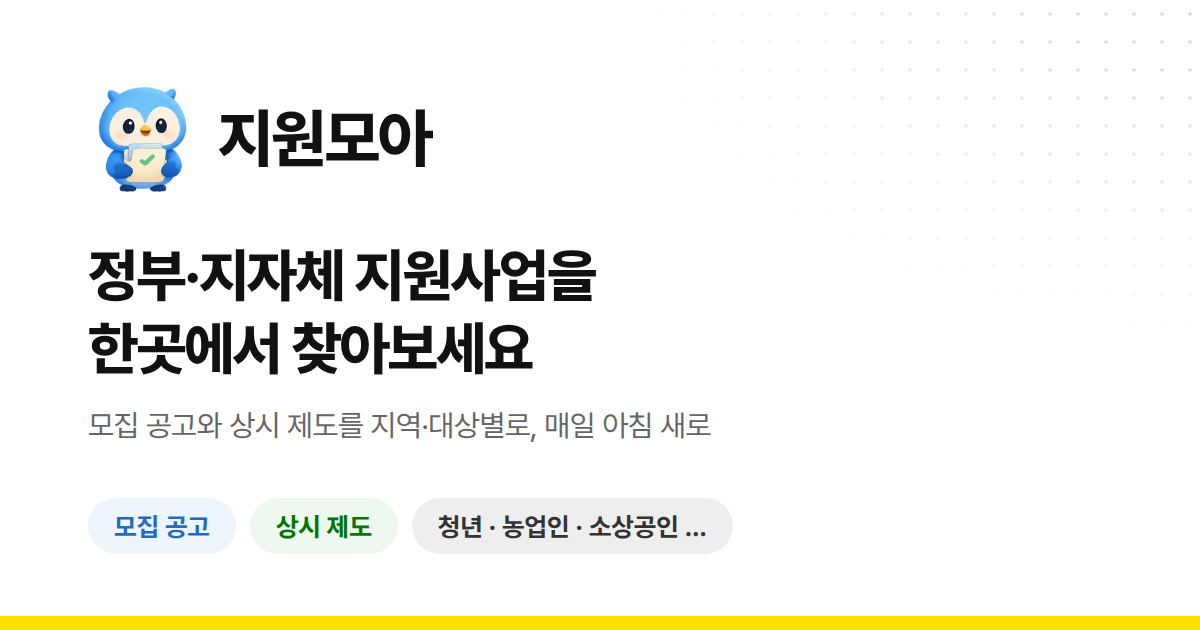
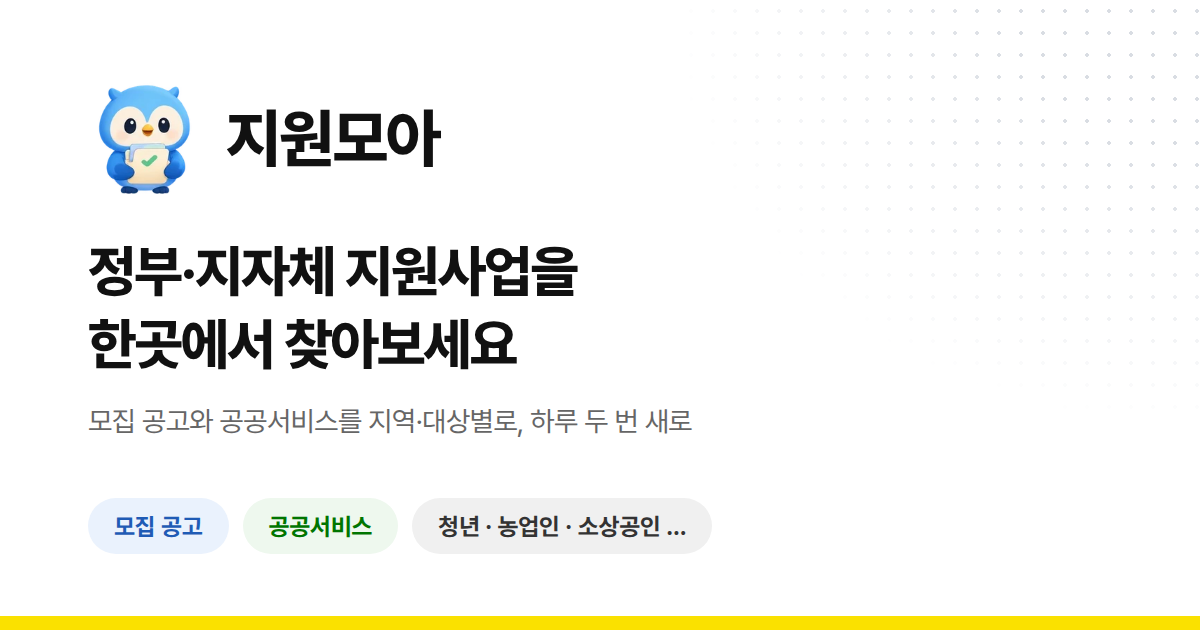
검색 띄어쓰기 무시·0건 안내, 첫 방문 가볍게, 홈 제목 수, 그래프 키보드, 휴대폰 누름 칸, 공유 그림 새로

diff --git a/site/app.js b/site/app.js
@@ -437,6 +437,12 @@
     }
     return noticeText;
   }
+  /* 곧 쓸 것 같을 때 미리 받기: 브라우저가 한가할 때(없으면 바로) */
+  function prefetchNoticeText() {
+    if (noticeText) return;
+    if (window.requestIdleCallback) window.requestIdleCallback(function () { ensureNoticeText(); }, { timeout: 1500 });
+    else ensureNoticeText();
+  }
   function retryNoticeText() {
     noticeText = null;
     noticeTextReady = false;
@@ -562,8 +568,14 @@
     if (item._h === undefined) {
       // 분야 칩 이름(예: '스마트팜·기술')은 넣지 않는다. '스마트팜' 검색에 스마트공장이 걸리지 않게.
       item._h = [item.t, item.ag, item.op, item.cat, item.sm, item.tg].join(" ").toLowerCase();
+      item._hn = item._h.replace(/\s+/g, ""); // 띄어쓰기를 뺀 글: '청년지원'으로 찾아도 '청년 지원'이 걸리게
     }
     return item._h;
+  }
+  /* 검색 낱말 하나가 이 사업 글에 있나(띄어쓰기 무시). 낱말이 여럿이면 모두 있어야 한다 */
+  function hasTerm(item, t) {
+    var h = haystack(item);
+    return h.indexOf(t) >= 0 || item._hn.indexOf(t) >= 0;
   }
 
   function fitsMe(item) {
@@ -591,8 +603,7 @@
   function matches(item, terms, skipSoon) {
     if (!inTab(item)) return false;
     if (terms.length) {
-      var h = haystack(item);
-      for (var i = 0; i < terms.length; i++) if (h.indexOf(terms[i]) < 0) return false;
+      for (var i = 0; i < terms.length; i++) if (!hasTerm(item, terms[i])) return false;
     }
     if (state.r) {
       var rg = item.rg || [];
@@ -729,12 +740,22 @@
     return items;
   }
 
-  function showState(kind) {
+  function showState(kind, terms) {
     var box = $("#listState");
     box.className = "state" + (kind === "error" ? " error" : "");
     if (kind === "empty") {
+      // 0건일 때 다음에 해 볼 것: 다른 탭(모집 공고 ↔ 공공서비스)에 같은 검색어가 있으면 그쪽으로, 낱말이 여럿이면 줄여 보기
+      var tips = el("div", { className: "state-tips" });
+      if (terms && terms.length) {
+        var other = emptyOther(terms);
+        if (other) tips.append(other);
+        tips.append(el("p", { className: "state-note", text: terms.length > 1
+          ? "낱말을 하나씩 줄여 보세요. 띄어쓰기는 상관없이 찾아요."
+          : "비슷한 다른 낱말(예: '창업' 대신 '스타트업')로도 찾아보세요." }));
+      }
       box.replaceChildren(icon("magnifying-glass"),
-        el("p", { className: "state-title", text: "조건에 맞는 지원사업이 없습니다" }),
+        el("p", { className: "state-title", text: terms && terms.length ? "‘" + state.q + "’에 맞는 지원사업이 없습니다" : "조건에 맞는 지원사업이 없습니다" }),
+        tips.childNodes.length ? tips : null,
         activeFilterCount() ? el("button", { type: "button", className: "btn dark", dataset: { action: "reset" },
           text: "조건 모두 지우기" }) : null);
     } else if (kind === "error") {
@@ -790,7 +811,7 @@
     }
     var hits = sortItems(data.filter(function (it) { return matches(it, terms); }));
     var listNote = $("#listNote"), textMissing = noticeTextFailed && terms.length > 0 && state.tab !== "services";
-    var cross = textMissing ? null : dueCrossNote(terms);
+    var cross = textMissing ? null : dueCrossNote(terms) || splitNote(data, terms, hits.length);
     listNote.hidden = !textMissing && !cross;
     listNote.replaceChildren(textMissing ? loadNote("공고 본문을 불러오지 못해 제목·기관 이름에서만 찾았습니다.", function () {
       retryNoticeText().then(function () { renderList(); renderDetail(); });
@@ -799,7 +820,7 @@
     $("#resultCount").textContent = fmtN(hits.length) + "건";
     $("#filterDone").textContent = "결과 " + fmtN(hits.length) + "건 보기";
     results.replaceChildren.apply(results, hits.slice(0, shown).map(function (item) { return row(item); }));
-    showState(hits.length ? null : "empty");
+    showState(hits.length ? null : "empty", terms);
     more.hidden = hits.length <= shown;
     more.textContent = "더 보기 (" + fmtN(Math.min(shown, hits.length)) + " / " + fmtN(hits.length) + ")";
     updateFilterBadge();
@@ -818,8 +839,8 @@
     state.tab = toSvc ? "services" : "open"; // matches가 탭에 따라 거르는 것(분야 등)을 그쪽 기준으로
     var n = pool.filter(function (it) {
       if (toSvc && terms.length) {
-        var h = [it.t, it.ag].join(" ").toLowerCase();
-        if (terms.some(function (t) { return h.indexOf(t) < 0; })) return false;
+        var h = [it.t, it.ag].join(" ").toLowerCase(), hn = h.replace(/\s+/g, "");
+        if (terms.some(function (t) { return h.indexOf(t) < 0 && hn.indexOf(t) < 0; })) return false;
       }
       return (toSvc || it.k === "n") && matches(it, toSvc ? [] : terms);
     }).length;
@@ -831,6 +852,53 @@
     b.addEventListener("click", function () {
       goTo({ tab: toSvc ? "services" : "open", q: state.q, soon: state.soon, due: state.due, sort: "deadline" });
     });
+    return b;
+  }
+
+  /* 붙여 쓴 한 낱말('청년지원')을 두 낱말('청년 지원')로 나눠 찾으면 훨씬 많으면 목록 위에 알린다.
+   * 띄어쓰기 무시(hasTerm)는 '청년 지원'이 붙어 있는 글만 찾으므로, '청년 … 지원'처럼 떨어진 글은 이렇게 권한다 */
+  function splitNote(data, terms, n) {
+    if (terms.length !== 1 || !/^[가-힣]{4,10}$/.test(terms[0])) return null;
+    var t = terms[0], best = null;
+    for (var k = 2; k <= t.length - 2; k++) {
+      var q = [t.slice(0, k), t.slice(k)];
+      var c = data.filter(function (it) { return matches(it, q); }).length;
+      if (!best || c > best.c) best = { q: q.join(" "), c: c };
+    }
+    if (!best || best.c < n * 2 || best.c - n < 5) return null;
+    var b = el("button", { type: "button", className: "cross-note" },
+      icon("magnifying-glass"), "띄어 쓴 ‘" + best.q + "’(으)로 찾으면 ", el("strong", { text: fmtN(best.c) + "건" }), icon("arrow-right"));
+    b.addEventListener("click", function () { // 다른 조건은 그대로 두고 검색어만 바꾼다
+      state.q = best.q; $("#q").value = best.q; shown = PAGE; renderList(); writeHash(true);
+    });
+    return b;
+  }
+
+  /* 검색 결과 0건일 때: 같은 검색어(다른 조건은 빼고)로 다른 탭에 있는 수. 공공서비스 자료를 아직 안 받았으면 건수 없이 단추만 */
+  function emptyOther(terms) {
+    var toSvc = state.tab !== "services", what = toSvc ? "공공서비스" : "모집 공고";
+    var pool = toSvc ? services : NOTICES;
+    if (!toSvc && !noticeTextReady) { // 공고 긴 글이 오면 개요·대상 글까지 넣어 다시 센다
+      ensureNoticeText().then(function () { if (state.tab === "services") renderList(); });
+    }
+    var go = function () { goTo({ tab: toSvc ? "services" : "open", q: state.q }); };
+    var label;
+    if (!pool) { // 공공서비스 자료를 받은 뒤 건수를 넣어 다시 그린다(없으면 이 줄은 사라진다)
+      ensureServices().then(function () { if (state.tab !== "services") renderList(); });
+      label = [what + "에서 ‘" + state.q + "’ 찾아보기"];
+    }
+    else {
+      var n = pool.filter(function (it) {
+        return statusOf(it) !== "마감" && terms.every(function (t) { return hasTerm(it, t); });
+      }).length;
+      if (!n) return null;
+      label = [what + "에는 ", el("strong", { text: fmtN(n) + "건" }), " 있어요"];
+    }
+    var b = el("button", { type: "button", className: "cross-note" },
+      el("span", { className: "kind-dot " + (toSvc ? "svc" : "open"), "aria-hidden": "true" }));
+    label.forEach(function (x) { b.append(x); });
+    b.append(icon("arrow-right"));
+    b.addEventListener("click", go);
     return b;
   }
 
@@ -1082,6 +1150,7 @@
     var pane = $("#detail");
     if (!state.id) {
       pane.replaceChildren(renderGuide());
+      pane._shown = null;
       document.body.classList.remove("detail-open", "lock");
       document.title = viewTitle();
       return;
@@ -1098,7 +1167,10 @@
       openOverlay();
       return;
     }
-    ensureDetail(item).then(function () { drawDetail(item); }, function () { drawDetail(item); });
+    // 공고 긴 글을 아직 안 받았으면(느린 망 수 초) 받은 것으로 먼저 그리고, 오면 다시 그린다
+    if (item.k !== "s" && !noticeTextReady) drawDetail(item, true);
+    ensureDetail(item).then(function () { if (state.id === item.id) drawDetail(item); },
+      function () { if (state.id === item.id) drawDetail(item); });
   }
 
   function detailBar() {
@@ -1107,7 +1179,7 @@
         icon("arrow-left"), "목록으로"));
   }
 
-  function drawDetail(item) {
+  function drawDetail(item, waiting) {
     var pane = $("#detail");
     var st = statusOf(item);
     var dday = st === "접수 중" && item.e ? daysBetween(today, item.e) : null;
@@ -1197,6 +1269,7 @@
     var inner = el("div", { className: "detail-inner" },
       head,
       el("h2", { id: "detailTitle", tabindex: "-1", text: item.t }),
+      waiting ? el("p", { className: "peek-wait detail-wait", role: "status", text: "공고 본문을 불러오는 중…" }) : null,
       lostNote,
       changeNote,
       facts,
@@ -1214,10 +1287,13 @@
       similarSection(item) || "",
       // 인쇄할 때만 보이는 꼬리: 어디서 뽑았는지와 다시 볼 주소
       el("p", { className: "print-only print-foot", text: "지원모아 " + shareUrl(item) + " · " + fmtDate(today, true) + " 인쇄" }));
+    // 같은 공고를 다시 그릴 때(긴 글이 늦게 옴)는 읽던 자리·초점을 그대로 둔다
+    var again = pane._shown === item.id && document.body.classList.contains("detail-open"), keep = pane.scrollTop;
     pane.replaceChildren(detailBar(), inner);
-    pane.scrollTop = 0;
+    pane._shown = item.id;
+    pane.scrollTop = again ? keep : 0;
     document.title = item.t + " | " + SITE_TITLE;
-    openOverlay();
+    if (!again) openOverlay();
   }
 
   /* 비슷한 지원사업 3건: 같은 종류(공고/공공서비스)에서 분야 같음 +3, 겹치는 대상마다 +2, 같은 지방 지역 +3(전국은 +1),
@@ -1421,6 +1497,7 @@
 
   function applyView() {
     var home = state.tab === "home";
+    if (state.tab === "open") prefetchNoticeText(); // 목록에서 공고를 누르면 바로 보이게
     $("#homePane").hidden = !home;
     $("#topHint").hidden = !home; // 그래프 안내는 홈에서만
     $("#listLayout").hidden = home;
@@ -1660,8 +1737,10 @@
     var runs = META.runs || [];
     var at = runs.map(function (r) { return r.at; }).sort().pop() || META.builtAt;
 
+    // 큰 제목은 '지금 신청할 수 있는' 것만: 마감과 아직 접수 전(접수 예정)은 뺀다(접수 예정은 숫자 타일·맨 아래 카드에)
+    var canApply = live.filter(function (n) { return statusOf(n) !== "접수 예정"; }).length;
     $("#homeTitle").replaceChildren((state.r ? state.r + "에서 " : "") + "지금 신청할 수 있는 모집 공고 ",
-      el("strong", { text: fmtN(live.length) }), "건");
+      el("strong", { text: fmtN(canApply) }), "건");
     $("#homeSub").textContent = NOTICES_MISSING ? "모집 공고 자료를 불러오지 못했습니다. 새로 고침해 주세요."
       : fmtStamp(at) + " 수집 · 공공서비스는 따로 셈";
     document.querySelectorAll("#homePane .sk-only").forEach(function (e) { e.remove(); }); // 첫 화면 자리 잡기(index.html)
@@ -1901,6 +1980,39 @@
   }
 
   /* 그래프 표시(막대·조각)를 키보드로도 고를 수 있게 한다. 이동할 곳이 없으면 읽기 전용 */
+  /* 키보드: 그래프 하나(막대·칸·지역 묶음, 도넛 범례, 지역 순위 목록)는 Tab 정거장 하나.
+   * 묶음 안에서는 화살표(←↑ 이전, →↓ 다음)·Home·End로 움직인다(예전엔 그래프 표시 84개가 모두 Tab 정거장이었다) */
+  function setupRoving(root) {
+    if (!root) return;
+    root.querySelectorAll("svg, .donut-legend, .kmap-list").forEach(function (g) {
+      var items = [].slice.call(g.querySelectorAll(g.tagName.toLowerCase() === "svg" ? "[tabindex]" : "button"));
+      if (items.length < 2) return;
+      g._rove = items;
+      g.setAttribute("aria-describedby", "roveHint");
+      items.forEach(function (it, i) { it.setAttribute("tabindex", i ? "-1" : "0"); });
+    });
+    if (root._roveBound) return;
+    root._roveBound = true;
+    root.addEventListener("focusin", function (e) {
+      var g = e.target.closest && e.target.closest("svg, .donut-legend, .kmap-list");
+      if (!g || !g._rove || g._rove.indexOf(e.target) < 0) return;
+      g._rove.forEach(function (it) { it.setAttribute("tabindex", it === e.target ? "0" : "-1"); });
+    });
+    root.addEventListener("keydown", function (e) {
+      var g = e.target.closest && e.target.closest("svg, .donut-legend, .kmap-list");
+      if (!g || !g._rove) return;
+      var items = g._rove, i = items.indexOf(e.target);
+      if (i < 0) return;
+      var j = { ArrowRight: i + 1, ArrowDown: i + 1, ArrowLeft: i - 1, ArrowUp: i - 1, Home: 0, End: items.length - 1 }[e.key];
+      if (j === undefined) return;
+      e.preventDefault();
+      items[Math.max(0, Math.min(items.length - 1, j))].focus();
+    });
+  }
+
+  /* 손가락으로 누르는 좁은 화면(style.css의 44px 누름 칸 규칙과 같은 조건) */
+  function PHONE_TAP() { return window.matchMedia("(pointer: coarse), (max-width: 639px)").matches; }
+
   function activate(node, label, onPick) {
     node.setAttribute("tabindex", "0");
     node.setAttribute("aria-label", label);
@@ -2408,6 +2520,7 @@
 
   function butterflyBars(data, series, label, W, fitH) {
     var head = 24, rowH = fitH ? Math.max(24, Math.min(40, Math.floor((fitH - head - 4) / data.length))) : 26;
+    if (PHONE_TAP()) rowH = 44; // 휴대폰: 막대 줄 높이 = 손가락 누름 칸 44px(막대 굵기는 그대로)
     var barT = Math.min(16, rowH - 8);
     var labelW = labelColumn(data.map(function (d) { return d.label; }), W) + 4;
     var side = (W - labelW) / 2, plot = side - 40;
@@ -2997,7 +3110,7 @@
     } else {
       S = Math.min(240, W - 20);
       cols = 2;
-      rowH = 34;
+      rowH = PHONE_TAP() ? 44 : 34; // 휴대폰: 범례 줄도 손가락 누름 칸 44px
     }
     var c = S / 2, R = c - DONUT_OFFSET - 2, r = Math.round(S * DONUT_INNER_K), zoom = S / 180;
     var legendRows = Math.ceil(rowsMax / cols), rowGap = side ? 2 : 4;
@@ -3259,6 +3372,7 @@
       cards = cards.concat(popBlock);
     }
     setupMotion(cards);
+    setupRoving($("#homeCharts"));
     placeSegGliders(); // 글꼴이 온 뒤 그래프만 다시 그릴 때도 전환 단추 알약을 맞춘다
   }
 
@@ -3664,8 +3778,13 @@
       renderList();
       renderDetail();
     }
-    // 첫 화면을 그린 뒤 공고 긴 글을 받아 둔다(검색·상세가 쓴다)
-    setTimeout(ensureNoticeText, 0);
+    // 공고 긴 글(notices-text.js, 압축 약 0.5MB)은 첫 화면에서 받지 않는다(첫 방문 무게의 절반이었음).
+    // 검색칸에 들어가거나·모집 공고 목록을 열거나·공고를 누르려 할 때 미리 받는다(prefetchNoticeText)
+    ["#homeQ", "#q"].forEach(function (sel) { $(sel).addEventListener("focus", prefetchNoticeText); });
+    document.addEventListener("pointerdown", function (e) {
+      if (e.target.closest && e.target.closest(".row[data-id], .peek-item, .stat")) prefetchNoticeText();
+    }, { capture: true, passive: true });
+    if (state.tab === "open" || state.q) prefetchNoticeText();
     if (document.readyState === "complete") animateMascot(); else window.addEventListener("load", animateMascot);
   }
 

diff --git a/site/study.js b/site/study.js
@@ -68,7 +68,7 @@
     { group: "홈", go: HOME, sel: ".home-hero", name: "첫 줄(제목·검색)", code: ".home-hero · renderHome()",
       desc: "홈 맨 위 영역입니다. 큰 제목, 수집 시각, 오늘 단추 두 개, 검색·지역 고르기가 있습니다." },
     { group: "홈", go: HOME, big: true, sel: "#homeTitle", name: "큰 제목", code: "#homeTitle",
-      desc: "지금 신청할 수 있는 모집 공고 수입니다. 마감된 것만 빼고 셉니다(접수 예정·예산 소진 시까지·상시 포함). 지역을 고르면 'OO에서 …'로 바뀝니다. 공공서비스는 따로 셉니다." },
+      desc: "지금 바로 신청할 수 있는 모집 공고 수입니다. 마감된 것과 아직 접수 전(접수 예정)은 빼고 셉니다(예산 소진 시까지·상시 포함). 지역을 고르면 'OO에서 …'로 바뀝니다. 공공서비스는 따로 셉니다." },
     { group: "홈", go: HOME, sel: "#homeSub", name: "수집 시각 줄", code: "#homeSub",
       desc: "마지막으로 공공데이터를 모은 시각입니다. 매일 오전 9시·오후 4시에 새로 모읍니다." },
     { group: "홈", go: HOME, big: true, sel: "#homeTodayNew", name: "오늘(어제) 올라온 공고", code: "#homeTodayNew · isTodayNew()",
@@ -76,7 +76,7 @@
     { group: "홈", go: HOME, big: true, sel: "#homeTodayDue", name: "오늘 마감인 지원사업", code: "#homeTodayDue",
       desc: "오늘이 마감일인 접수 중 지원사업 수입니다. 마감일이 있는 공공서비스도 함께 셉니다. 누르면 건수가 많은 쪽 탭 목록으로 갑니다." },
     { group: "홈", go: HOME, big: true, sel: "#homeSearch", name: "검색 상자", code: "#homeSearch · #homeQ",
-      desc: "'스마트팜'·'청년'처럼 낱말로 찾습니다. 제목·기관·분야·개요·대상 글에서 찾고, 낱말을 띄어 쓰면 모두 들어간 것만 나옵니다. 누르면 모집 공고 목록으로 갑니다." },
+      desc: "'스마트팜'·'청년'처럼 낱말로 찾습니다. 제목·기관·분야·개요·대상 글에서 찾고, 띄어쓰기는 상관없습니다('청년지원' = '청년 지원'). 낱말을 띄어 쓰면 모두 들어간 것만 나옵니다. 누르면 모집 공고 목록으로 갑니다." },
     { group: "홈", go: HOME, sel: ".hero-search .region-field", name: "지역 고르기", code: "#homeRegion",
       desc: "지역을 고르면 홈의 모든 숫자·그래프·목록이 그 지역 기준으로 바뀝니다. 16개 시도(광주·전남은 하나)." },
     { group: "홈", go: HOME, sel: ".hero-search .check.national", name: "전국 대상 포함", code: "#homeNat",
@@ -211,6 +211,8 @@
       desc: "마감 조건으로 볼 때 같은 조건의 반대쪽(모집 공고 ↔ 공공서비스)도 있으면 알려 주는 한 줄입니다. 누르면 그쪽 목록으로 갑니다." },
     { group: "목록 화면", go: OPEN, big: true, sel: "#results", name: "결과 목록", code: "#results",
       desc: "처음 40줄, 아래 '더 보기'로 40줄씩 더 붙입니다." },
+    { group: "목록 화면", go: OPEN, sel: "#listState", name: "결과 없음 안내", code: "#listState · showState() · emptyOther()",
+      desc: "조건·검색어에 맞는 것이 0건일 때 보입니다. 같은 검색어가 다른 탭(모집 공고 ↔ 공공서비스)에 있으면 건수와 함께 바로 가는 줄, 낱말 줄이기 안내, '조건 모두 지우기'가 나옵니다." },
     { group: "목록 화면", go: OPEN, sel: "#basisShort", name: "수집 시각", code: "#basisShort · renderBasis()",
       desc: "목록 자료를 마지막으로 모은 시각입니다. 출처 하나가 실패하면 여기에 알려 줍니다." },
 

diff --git a/site/index.html b/site/index.html
@@ -15,7 +15,7 @@
 <meta property="og:title" content="지원모아 | 정부·지자체 지원사업을 한곳에서">
 <meta property="og:description" content="모집 공고와 공공서비스를 지역·대상별로 찾아보세요. 하루 두 번 새로 모읍니다.">
 <meta property="og:url" content="https://jiwonmoa.orfa.shop/">
-<meta property="og:image" content="https://jiwonmoa.orfa.shop/img/og.png">
+<meta property="og:image" content="https://jiwonmoa.orfa.shop/img/og.png?v=2">
 <meta property="og:image:width" content="1200">
 <meta property="og:image:height" content="630">
 <meta property="og:locale" content="ko_KR">
@@ -370,6 +370,7 @@
 <!-- 맨 위로: 화면 한 장 반쯤 내려가면 오른쪽 아래에 나타난다 -->
 <button type="button" class="to-top" id="toTop" aria-label="맨 위로" hidden><i class="ph ph-arrow-up" aria-hidden="true"></i></button>
 
+<p id="roveHint" class="sr-only">화살표 키로 항목을 옮겨 다니고 Enter로 요약을 엽니다.</p>
 <div id="vizTip" class="viz-tip" role="status" hidden></div>
 
 <script src="vendor/korea-map.js"></script>

diff --git a/site/style.css b/site/style.css
@@ -1232,7 +1232,10 @@ body.peek-lock .to-top, body.detail-open .to-top, body.filters-open .to-top, bod
  * 보이는 알약은 그대로 두고, 위아래로 보이지 않는 여백을 늘린다 */
 @media (pointer: coarse), (max-width: 639px) {
   .seg-mini button::before { content: ""; position: absolute; left: 0; right: 0; top: -7px; bottom: -7px; }
-  .tabs [role="tab"] { min-width: 44px; justify-content: center; }
+  .tabs [role="tab"] { min-width: 44px; justify-content: center; position: relative; }
+  /* 탭 누름 칸을 위아래로 늘려 44px 이상(보이는 알약 크기는 그대로, 탭 줄 안쪽 여백 안에서) */
+  .tabs [role="tab"]::after { content: ""; position: absolute; left: 0; right: 0; top: -4px; bottom: -4px; }
+  .kmap-list button, .kmap-wrap.wide .kmap-list button { min-height: 44px; } /* 지역 순위 줄 */
 }
 
 /* ---------- 탭 줄이 좁을 때 단계별로 줄이기(app.js fitTabs) ----------

diff --git a/tests/test_rules.py b/tests/test_rules.py
@@ -387,6 +387,15 @@ class SecurityHeaderTest(unittest.TestCase):
                 n = text.replace("공모사업 상세", "").count(bad)
                 self.assertEqual(n, 0, name + ": '" + bad + "' " + str(n) + "곳")
 
+    def test_first_visit_light(self):
+        # 공고 긴 글(notices-text.js, 첫 방문 무게의 절반)은 홈에서 바로 받지 않는다 — 검색·목록·상세 직전에만(prefetchNoticeText)
+        app = (ROOT / "site" / "app.js").read_text(encoding="utf-8")
+        self.assertNotIn("setTimeout(ensureNoticeText", app)
+        self.assertIn("function prefetchNoticeText", app)
+        # 공유 그림을 바꾸면 og:image 주소의 ?v= 를 올려 메신저 캐시를 새로 받게 한다
+        html = (ROOT / "site" / "index.html").read_text(encoding="utf-8")
+        self.assertRegex(html, r'og:image" content="https://jiwonmoa\.orfa\.shop/img/og\.png\?v=\d+"')
+
 
 class AgriFeedTest(unittest.TestCase):
     """ORFA 챗봇이 읽는 site/data/agri-feed.json — 농업 판정(a=1)만, 짧은 키만, 상세 글은 넣지 않는다."""

diff --git a/docs/DEVELOPMENT.md b/docs/DEVELOPMENT.md
@@ -104,6 +104,15 @@ README는 사이트를 소개하는 글이고, 이 문서는 고치는 사람을
 - 숫자 타일(`statTile`)도 누르면 바로 목록으로 가지 않고 요약 창을 연다 — 화면 가운데 창(`openPeek(…, "modal")`, 뒤는 어둡게·스크롤 막음,
   형님이 시안 A 펼침·B 가운데·C 서랍·D 말풍선 중 B를 고름). 휴대폰은 다른 요약과 같은 아래 시트.
   '7일 안에 마감'은 모집 공고와 공공서비스가 섞여 있어 두 장(`spec.cards`, `statCard`)으로 — 넓은 화면은 나란히, 휴대폰 시트는 위아래.
+- 검색(`hasTerm`): 낱말마다 글(`_h`) 또는 띄어쓰기를 뺀 글(`_hn`)에 있으면 맞음 — '청년지원'으로도 '청년 지원'을 찾는다. 0건이면 `showState("empty", terms)`가
+  같은 검색어로 다른 탭 건수(`emptyOther`)·낱말 줄이기 안내를 보인다. 붙여 쓴 한글 한 낱말은 두 낱말로 나눠 훨씬 많으면
+  목록 위에 '띄어 쓴 ‘청년 지원’(으)로 찾으면 N건'(`splitNote`, 누르면 검색어만 바꿈).
+- 공고 긴 글 `notices-text.js`(압축 약 0.5MB)는 첫 화면에서 받지 않는다(`prefetchNoticeText`: 검색칸 초점·모집 공고 탭·목록 줄/타일 누르기 직전).
+  상세는 긴 글이 오기 전 받은 것으로 먼저 그리고('불러오는 중'), 오면 같은 자리에서 다시 그린다(`drawDetail(item, waiting)`, 스크롤·초점 유지).
+- 홈 큰 제목 '지금 신청할 수 있는 모집 공고'는 마감·접수 예정을 뺀 수.
+- 키보드(`setupRoving`): 그래프 하나(svg 표시 묶음·도넛 범례·지역 순위)는 Tab 정거장 하나, 안에서는 화살표·Home·End(`#roveHint`가 화면 읽기에 안내).
+- 휴대폰 누름 칸(`PHONE_TAP()` = pointer coarse 또는 639px 이하): 도넛 범례 줄·나비 막대 줄 44px, 탭은 `::after`로 위아래 4px 늘림.
+- 공유 그림 `img/og.png`(1200×630)는 HTML 카드를 브라우저로 찍어 만든다(PIL 없음). 바꾸면 `og:image` 주소의 `?v=`를 올려 카톡·텔레그램 캐시를 새로 받게.
 - 브라우저 탭 제목(페이지 제목, `viewTitle()`): 홈 '지원모아', 목록 '모집 공고 | 지원모아'·'공공서비스 | 지원모아', 상세 '이름 | 지원모아', 없는 id는 '지금 목록에 없는 지원사업 | 지원모아'.
 - 공부 모드(PC만, `#studyToggle`, '글자 크게' 옆): 화면 각 영역의 이름·하는 일·코드 이름을 툴팁으로. `site/study.js`(영역 목록 `E` — sel·name·code·desc·group·big·go)·`site/study.css`를
   처음 켤 때만 `loadScript`로 읽는다(첫 화면 무게 그대로). 아래 띠: 가리키면 설명(사이트 동작) / 누르면 설명(사이트 동작 멈춤) / 이름표 모두 / 용어집(화면별, 누르면 그 화면·영역으로) / 끄기.

diff --git a/README.md b/README.md
@@ -57,9 +57,9 @@
 
 홈 화면에서는 지금 상황을 한눈에 볼 수 있습니다.
 
-- 🔢 **지금 신청할 수 있는 모집 공고 N건**: 마감된 공고는 빼고 센 숫자입니다.
+- 🔢 **지금 신청할 수 있는 모집 공고 N건**: 마감된 공고와 아직 접수 전인 공고(접수 예정)는 빼고 센 숫자입니다.
 - 🆕 **오늘 올라온 공고 / ⏰ 오늘 마감인 지원사업**: 누르면 그것만 목록으로 모아 보여 줍니다(오늘 마감에는 마감일 있는 공공서비스도 포함).
-- 🔎 **검색과 지역 선택**: '스마트팜', '청년', '수출'처럼 낱말로 찾고, 지역을 고르면 홈의 모든 숫자와 그래프가 그 지역 기준으로 바뀝니다.
+- 🔎 **검색과 지역 선택**: '스마트팜', '청년', '수출'처럼 낱말로 찾고(띄어쓰기는 상관없음, 0건이면 다른 탭에 있는지 알려 줌), 지역을 고르면 홈의 모든 숫자와 그래프가 그 지역 기준으로 바뀝니다.
 - 📈 **숫자 타일 6장**: 7일 안에 마감(모집 공고 + 마감일 있는 공공서비스) · 접수 예정 · 예산 소진 시까지 · 상시 접수 · 공공서비스 · **내 조건에 맞음**(나이·소득·성별을 넣으면, 그 조건이 적혀 있고 맞는 지원사업 수 — 이 기기에만 기억). 누르면 그래프처럼 **요약 창**이 먼저 뜨고(분야·대상·지역, 많이 본 3건), '모두 보기'로 목록에 갑니다. '7일 안에 마감'은 모집 공고·공공서비스 **두 장**으로 나눠 보여 줍니다.
 <p align="center"><img src="docs/images/stat-peek.webp" alt="숫자 타일 '7일 안에 마감'을 누르면 뜨는 가운데 요약 창 — 모집 공고와 공공서비스 두 장" width="620"></p>
 
